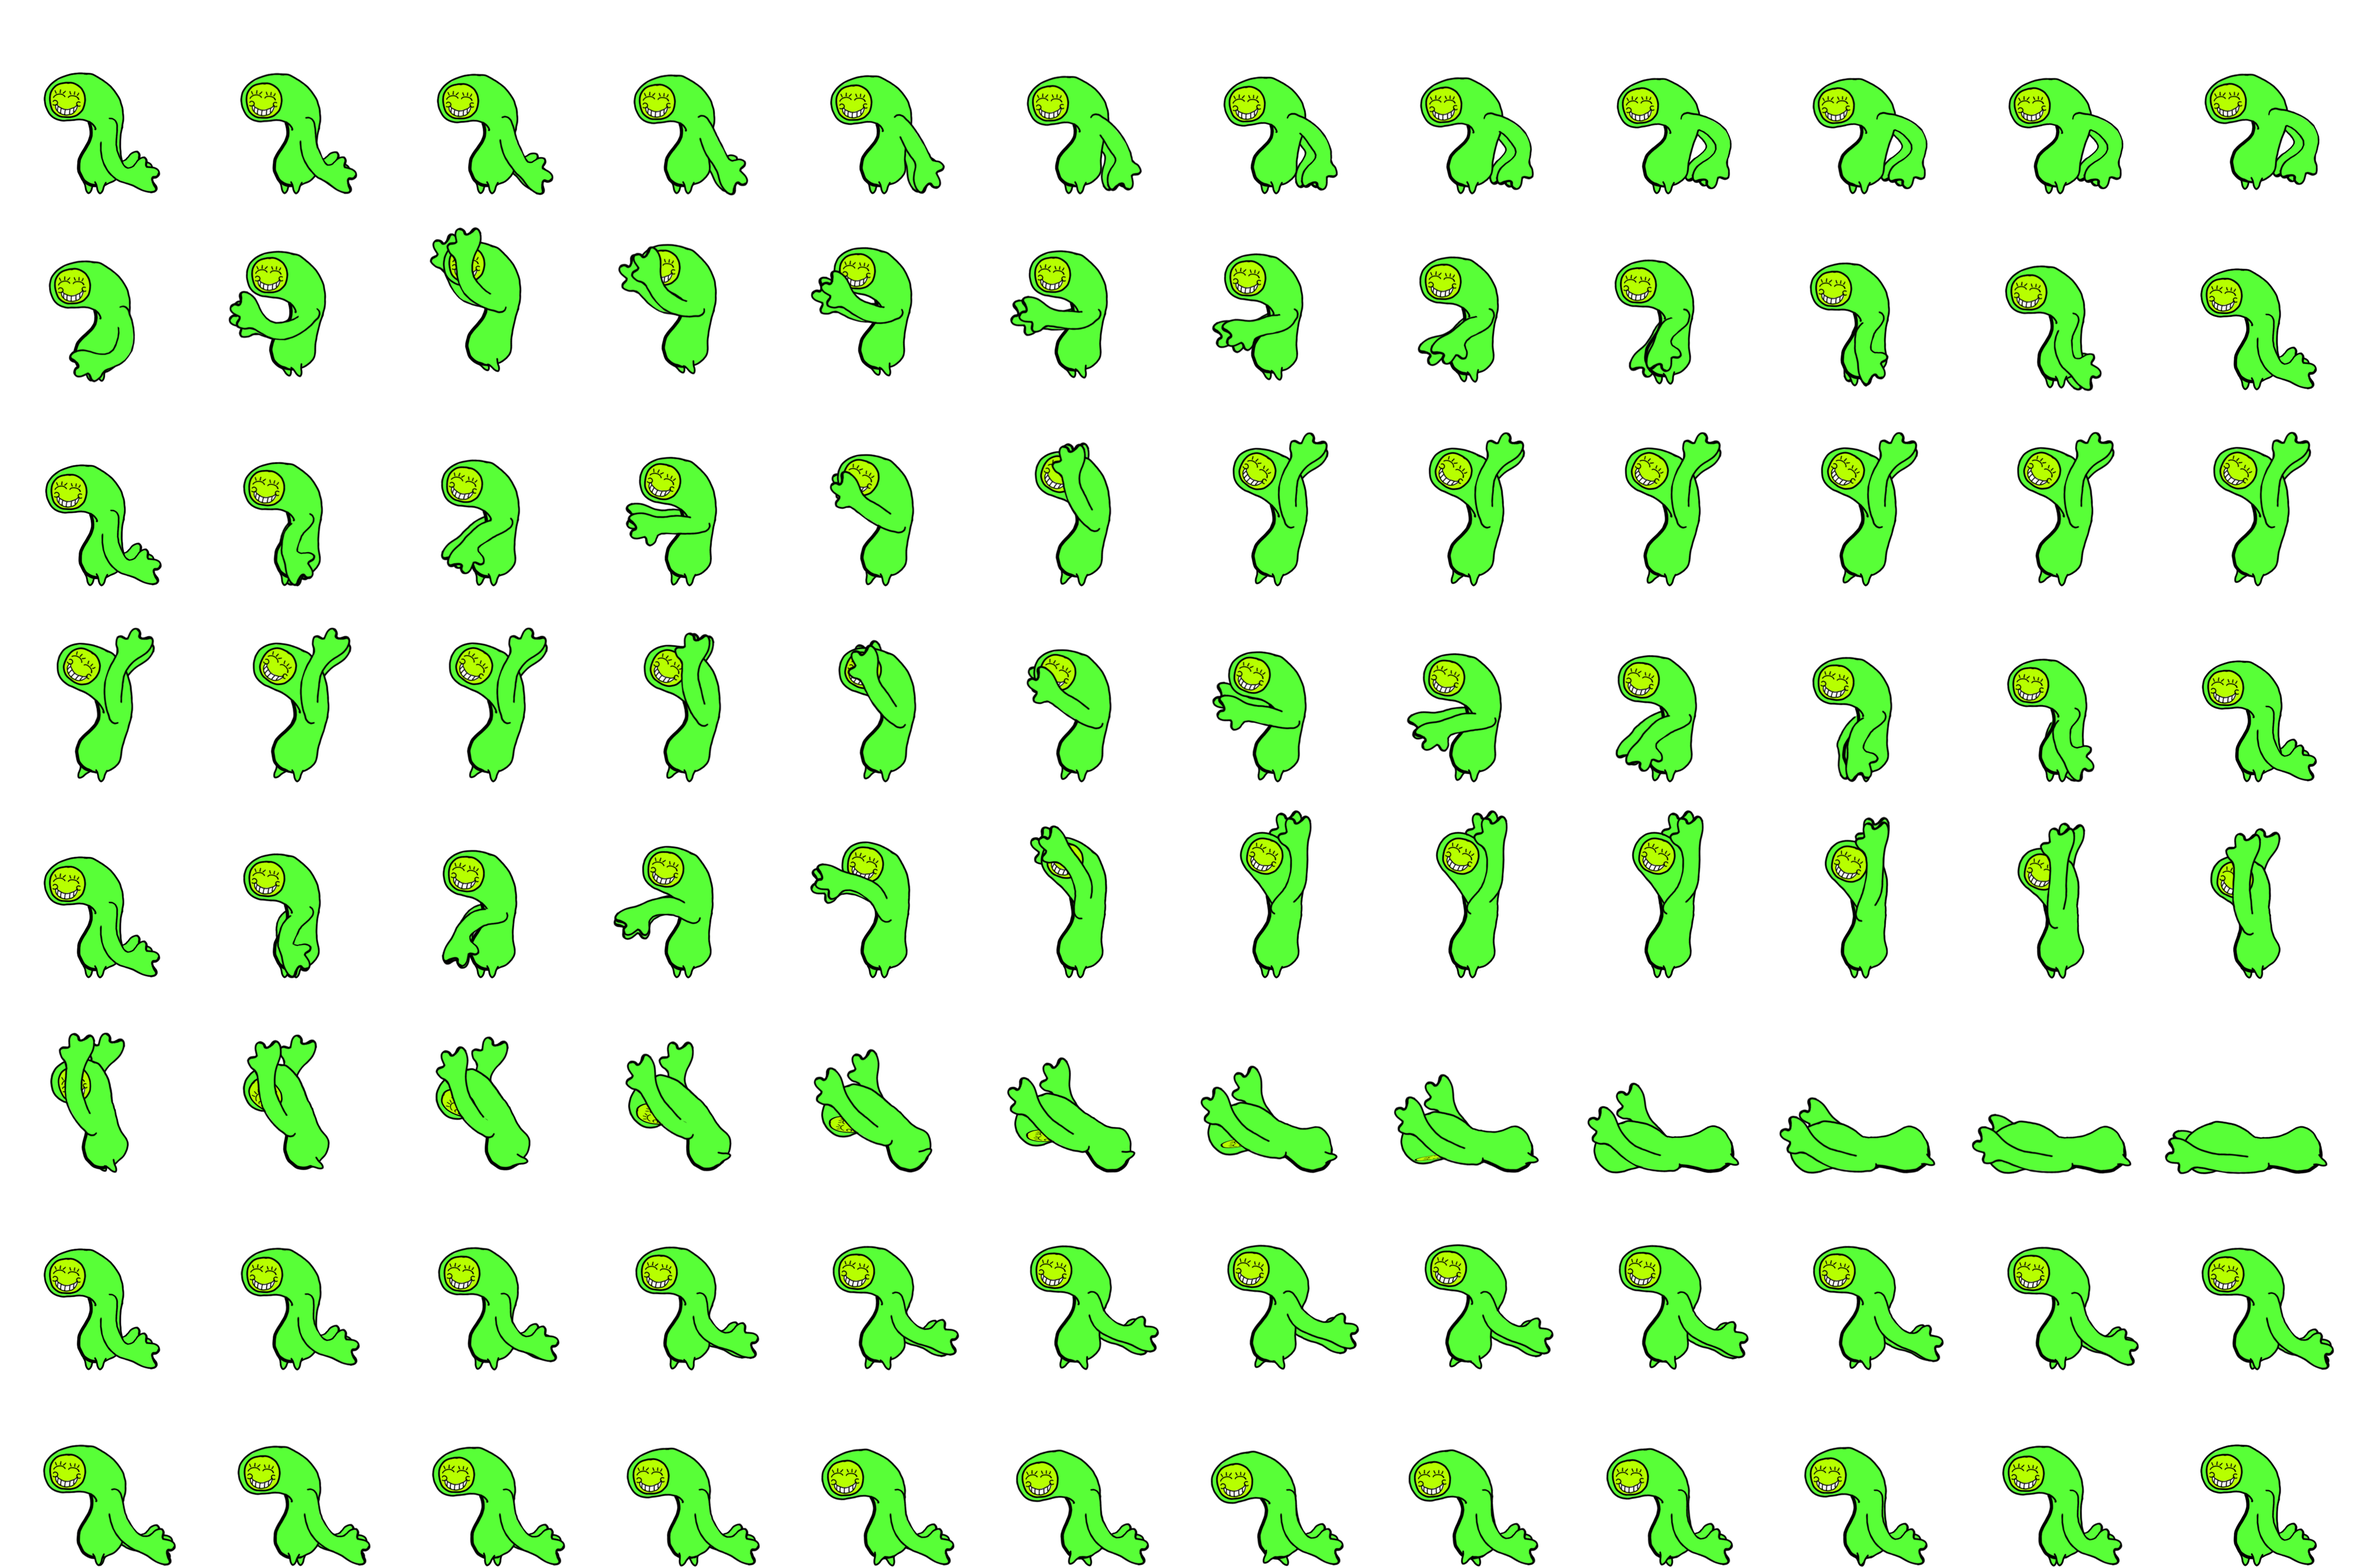
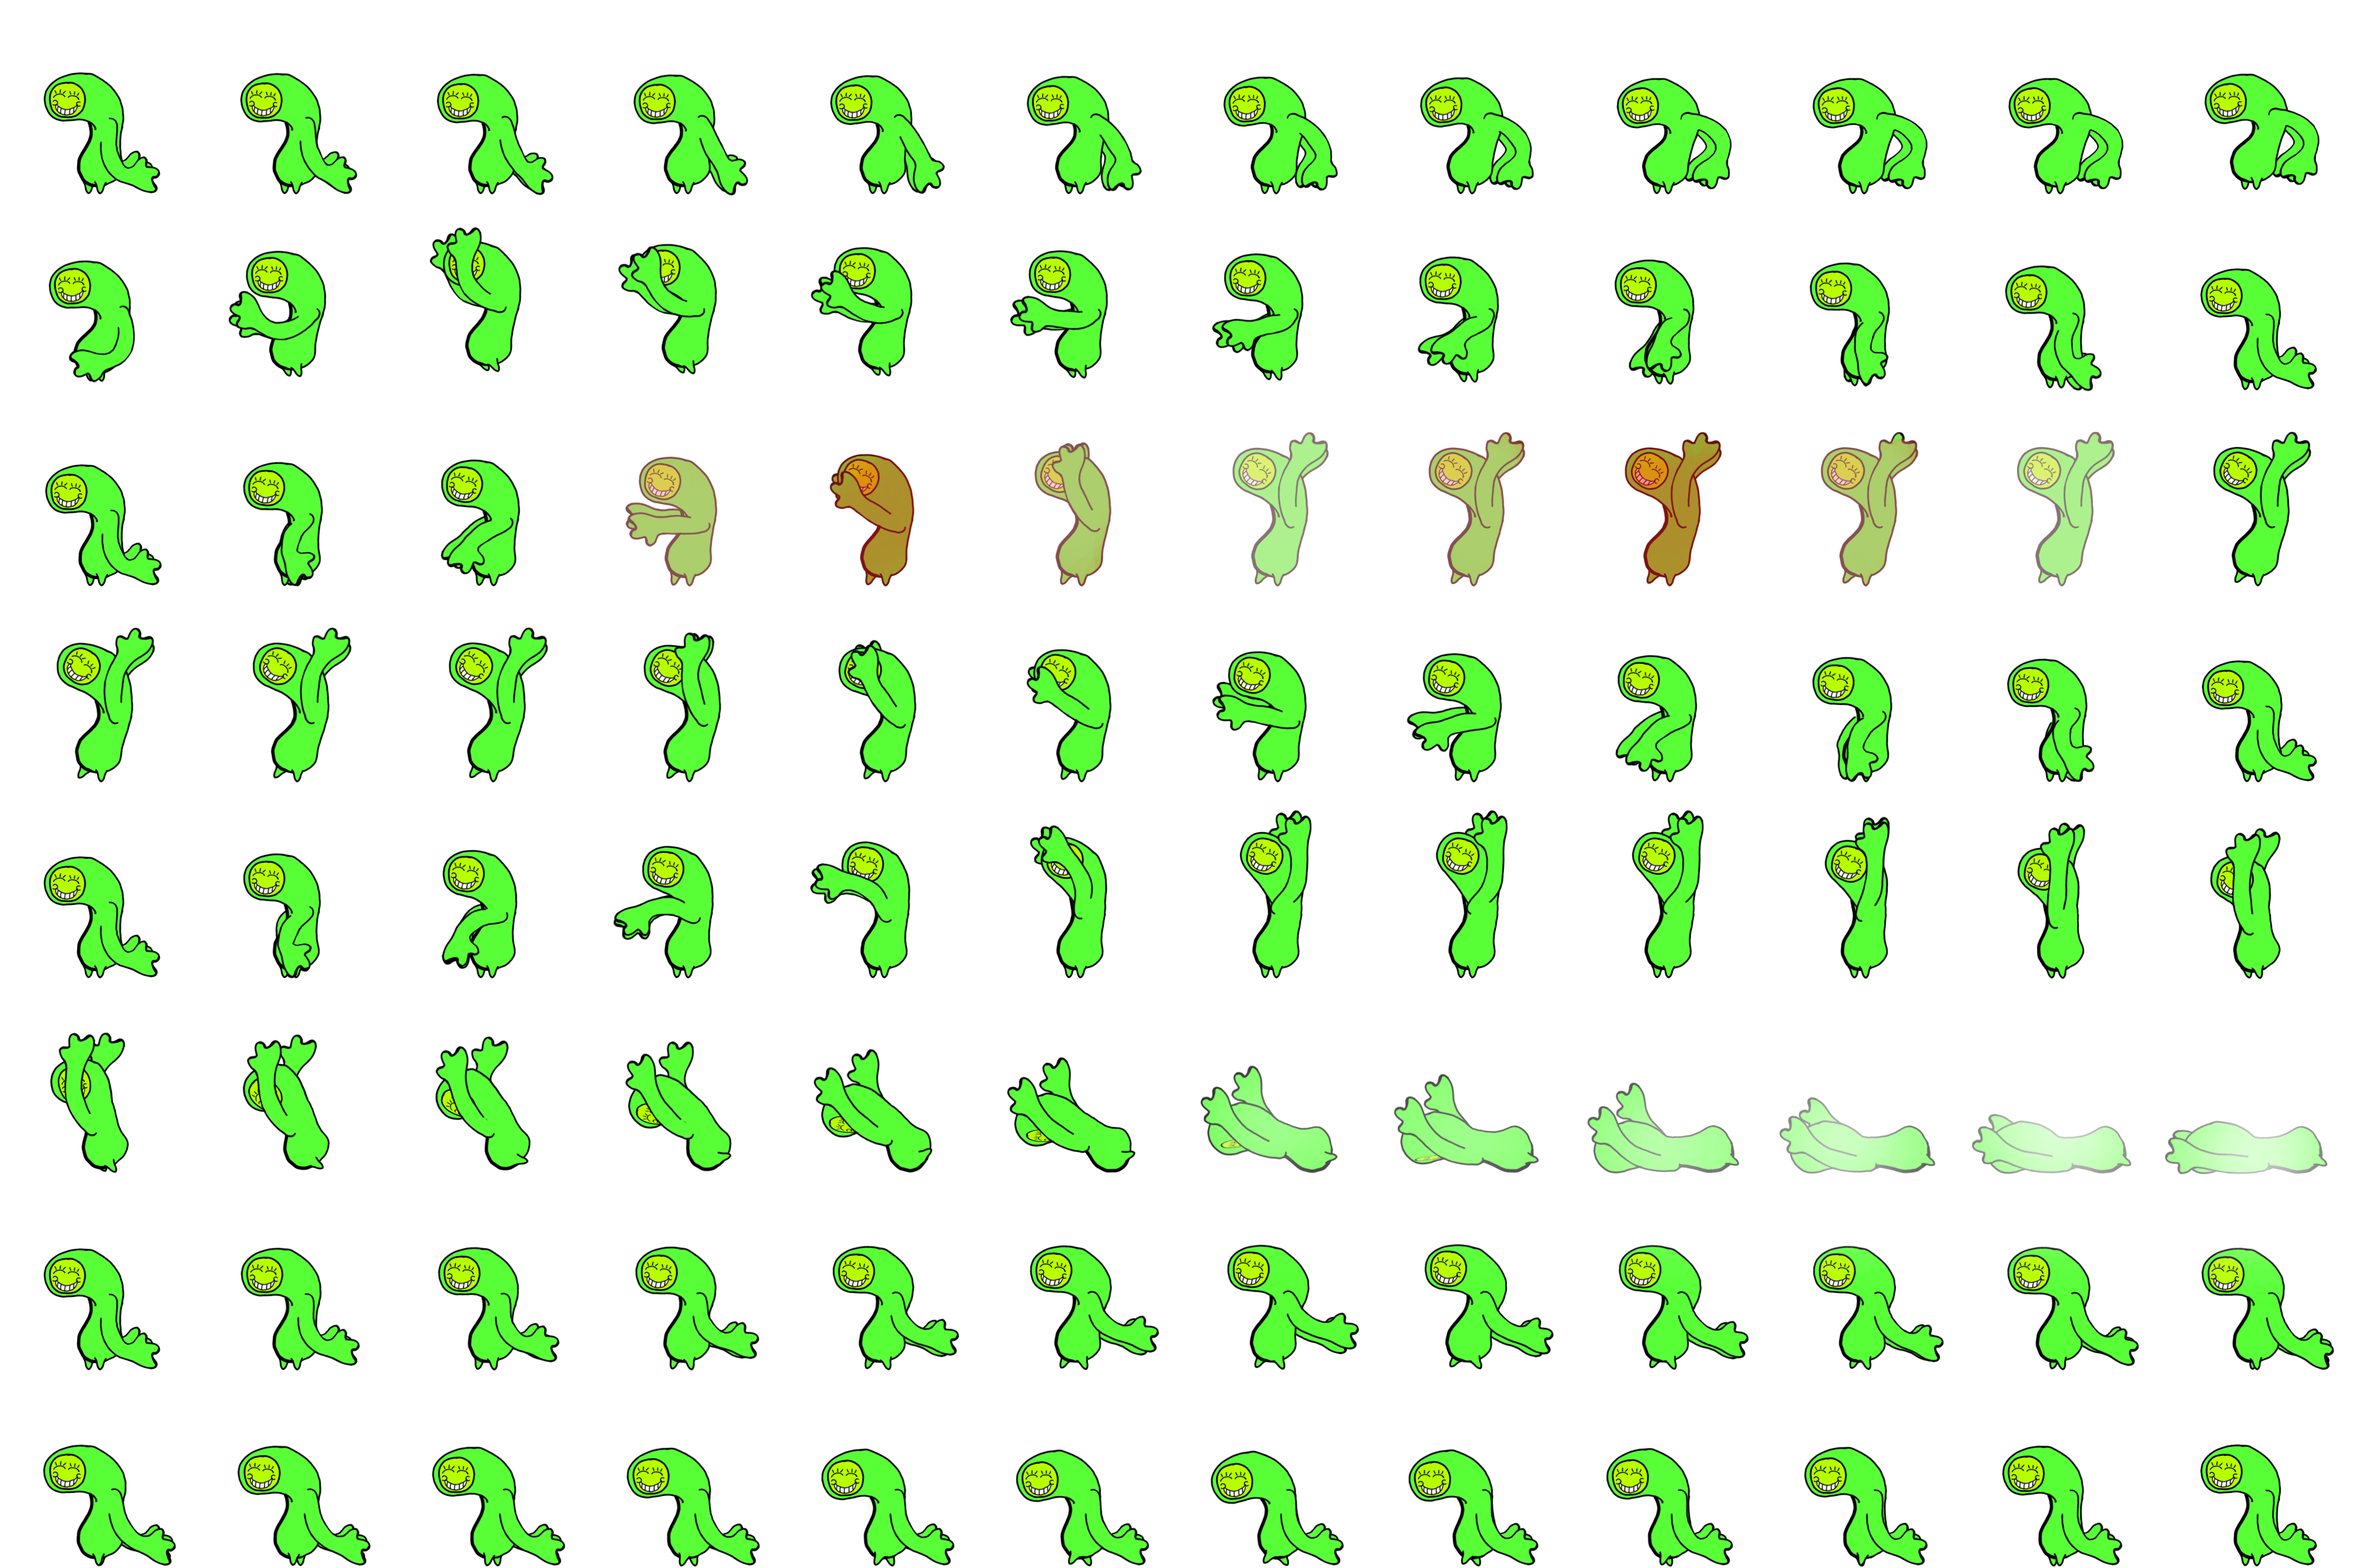
切换怪物素材、Fever变身特效、怪物受击特效

diff --git a/MyFrame/Effect_Player_Hit.h b/MyFrame/Effect_Player_Hit.h
@@ -8,7 +8,7 @@
 class Effect_Player_Hit : public Effect
 {
 public:
-	Effect_Player_Hit(Graphics& gfx, Rgph::RenderGraph& rg, XMFLOAT3 position, bool flip, Object_Type_Tag tag = effect_Player_Hit)
+	Effect_Player_Hit(Graphics& gfx, Rgph::RenderGraph& rg, XMFLOAT3 position, bool flip, int type, Object_Type_Tag tag = effect_Player_Hit)
 		:
 		Effect(tag)
 	{
@@ -16,13 +16,27 @@ public:
 		SetPosition(position);
 		SetSize({ 8.0f,8.0f,0.0f });
 		SetCollisionOnOff(false);
+		pack[0] = { 5,2,1,10,20.0f };
+		pack[1] = { 0,0,0, 0, 0.0f };
+		pack[2] = { 3,2,1, 6,20.0f };
 
 		// graphics init
-		visualPre = std::make_unique<Sprite3DNoLit>(gfx, std::vector<std::string>{"asset\\Images\\\Player\\Player_Blue_Effect.png"});
-		visualPre->SetFrameAuto(pack.numU, pack.numV, pack.FrameStart, pack.FrameTotalCount, 0, pack.FPS, flip, false);
+		int t = type - 1;
+		visualPre = std::make_unique<Sprite3DNoLit>(gfx, std::vector<std::string>{
+			"asset\\Images\\\Player\\Effect_Red_Hit.png", 
+			"asset\\Images\\\Player\\Player_Green_Effect.png", 
+			"asset\\Images\\\Player\\Effect_Blue_Hit.png"});
+		visualPre->SetFrameAuto(pack[t].numU, pack[t].numV, pack[t].FrameStart, pack[t].FrameTotalCount, t, pack[t].FPS, flip, false);
 		visualPre->SetPosition(transInfo.position);
 		visualPre->SetScale(transInfo.scale);
 		visualPre->LinkTechniques(rg);
+	}
+	void SpawnWithType(XMFLOAT3 pos, bool flip, int type)
+	{
+		SpawnAt(pos, flip);
+
+		int t = type - 1;
+		visualPre->SetFrameAuto(pack[t].numU, pack[t].numV, pack[t].FrameStart, pack[t].FrameTotalCount, t, pack[t].FPS, flip, false);
 	}
 	void SpawnAt(XMFLOAT3 pos, bool flip) override
 	{	
@@ -30,7 +44,6 @@ public:
 		SetPosition(pos);
 
 		// reset animation
-		visualPre->SetFrameAuto(pack.numU, pack.numV, pack.FrameStart, pack.FrameTotalCount, 0, pack.FPS, flip, false);
 		visualPre->SetPosition(transInfo.position);
 	}
 	void OnEnable(void) override {}
@@ -51,5 +64,5 @@ public:
 	void OnCollide(Character* other) override {}
 private:
 	std::unique_ptr<Sprite3DNoLit> visualPre;
-	SpriteAnimeInfo pack{ 12,13,145,5 };
+	SpriteAnimeInfo pack[3];
 };

diff --git a/MyFrame/EffectManager.cpp b/MyFrame/EffectManager.cpp
@@ -22,7 +22,7 @@ EffectManager::EffectManager(Graphics& gfx, Rgph::RenderGraph& rg)
 		ObjectCodex::Acquire<Effect_Player_Remote_1>(effect_Player_Remote_Attack_1, gfx, rg, XMFLOAT3{ 0.0f,0.0f,0.0f }, false);
 		ObjectCodex::Acquire<Effect_Player_Remote_2>(effect_Player_Remote_Attack_2, gfx, rg, XMFLOAT3{ 0.0f,0.0f,0.0f }, false);
 		ObjectCodex::Acquire<Effect_Player_Remote_3>(effect_Player_Remote_Attack_3, gfx, rg, XMFLOAT3{ 0.0f,0.0f,0.0f }, false);
-		ObjectCodex::Acquire<Effect_Player_Hit>(effect_Player_Hit, gfx, rg, XMFLOAT3{ 0.0f,0.0f,0.0f }, false);
+		ObjectCodex::Acquire<Effect_Player_Hit>(effect_Player_Hit, gfx, rg, XMFLOAT3{ 0.0f,0.0f,0.0f }, false, 0);
 		ObjectCodex::Acquire<Effect_Player_EnergyAbsorb>(effect_Player_EnergyAbsorb, gfx, rg, XMFLOAT3{ 0.0f,0.0f,0.0f }, 1);
 	}
 	for (int i = 0;i < 30;i++)
@@ -99,8 +99,15 @@ void EffectManager::Update(float dt)
 				effects.push_back(ea);
 				ea->SpawnWithType(pos, type, count);
 
-				effects.push_back(ObjectCodex::Acquire<Effect_Player_Hit>(effect_Player_Hit, gfx, rg, pos, flip));
-				effects.back()->SpawnAt(pos, flip);
+				type = 0;
+				if (pPlayer->GetWeaponSlots()->GetCurrentSlot().GetType() == WEAPON_TYPE_1) type = 1;
+				else if (pPlayer->GetWeaponSlots()->GetCurrentSlot().GetType() == WEAPON_TYPE_3) type = 3;
+				if (type == 1 || type == 3)
+				{
+					auto* eh = ObjectCodex::Acquire<Effect_Player_Hit>(effect_Player_Hit, gfx, rg, pos, flip, type);
+					effects.push_back(eh);
+					eh->SpawnWithType(pos, flip, type);
+				}
 			}
 		}
 	}

diff --git a/MyFrame/Player.h b/MyFrame/Player.h
@@ -89,7 +89,8 @@ public:
 					"asset\\Images\\Player\\Player_Red_Effect.png",
 					"asset\\Images\\Player\\Player_Green_Effect.png",
 					"asset\\Images\\Player\\Player_Blue_Effect.png",
-					"asset\\Images\\Player\\Player_Fever_Bg_Back.png"});
+					"asset\\Images\\Player\\Player_Fever_Bg_Back.png",
+					"asset\\Images\\Player\\Player_Transform_Fever.png"});
 			visualPre_Effect_Bg->SetPosition(transInfo.position);
 			visualPre_Effect_Bg->SetScale(GetEffectSize());
 			visualPre_Effect_Bg->SetFrameAuto(12, 10, 1, 120, 0, 20.0f, false, true);
@@ -120,6 +121,7 @@ public:
 			auto scale = 5.0f;
 			visualPre_Fever.push_back(std::make_unique<Sprite3DNoLit>(gfx, std::vector<std::string>{"asset\\Images\\Player\\Player_Fever_Attack.png"}));
 			visualPre_Fever[i]->SetScale(transInfo.scale.x * scale, transInfo.scale.y * scale);
+			visualPre_Fever[i]->SetFrame(9, 8, 49, 24, 1, 0, (i < 3) ? true : false);
 			visualPre_Fever[i]->LinkTechniques(rg);
 		}
 
@@ -395,6 +397,6 @@ public:
 	void Update(Player* owner, float dt) override;
 	std::string GetName() const override { return PLAYER_STATE[PLAYER_CHANGE]; }
 private:
-	SpriteAnimeInfo packIn { 12, 10, 49, 48 };
-	SpriteAnimeInfo packOut{  4,  5,  1, 20 };
+	SpriteAnimeInfo packOut{ 12, 10, 49, 48 };
+	SpriteAnimeInfo packIn{ 7,  7,  0, 24, 10.0f };
 };

diff --git a/MyFrame/UI_Game.h b/MyFrame/UI_Game.h
@@ -53,7 +53,7 @@ public:
 		// PlayerHpBar_Side
 		{
 			pPlayerHpBar_Side = std::make_unique<Sprite2D>(gfx, std::vector<std::string>{ "asset\\Images\\UI_Game\\Player_HP_Side.png" });
-			pPlayerHpBar_Side->SetScale(25.0f, 50.0f);
+			pPlayerHpBar_Side->SetScale(15.0f, 50.0f);
 			pPlayerHpBar_Side->SetFrameAuto(8, 6, 1, 48, 0, 30.0f);
 			pPlayerHpBar_Side->LinkTechniques(rg);
 		}
@@ -154,13 +154,16 @@ public:
 		pPlayerHpBar_Side->Submit(Chan::ui);
 		if (!fever)
 		{
-			// ResourceSlot
-			for (size_t i = 0; i < slotNum; i++)
+			if(!player->GetIsChange())
 			{
-				pResourceSlot[i]->Submit();
+				// ResourceSlot
+				for (size_t i = 0; i < slotNum; i++)
+				{
+					pResourceSlot[i]->Submit();
+				}
+				// WeaponSlot
+				pWeaponSlot->Submit();
 			}
-			// WeaponSlot
-			pWeaponSlot->Submit();
 		}
 		// Combo
 		pCombo->Submit();

diff --git a/MyFrame/Player_ResourceSystem.cpp b/MyFrame/Player_ResourceSystem.cpp
@@ -155,6 +155,7 @@ void WeaponSlots::DoChange(void)
 
 	IsChange = true;
 	IsFever = true;
+	CanChange = { false,WEAPON_TYPE_NONE };
 }
 
 void WeaponSlots::FinishChange(void)
